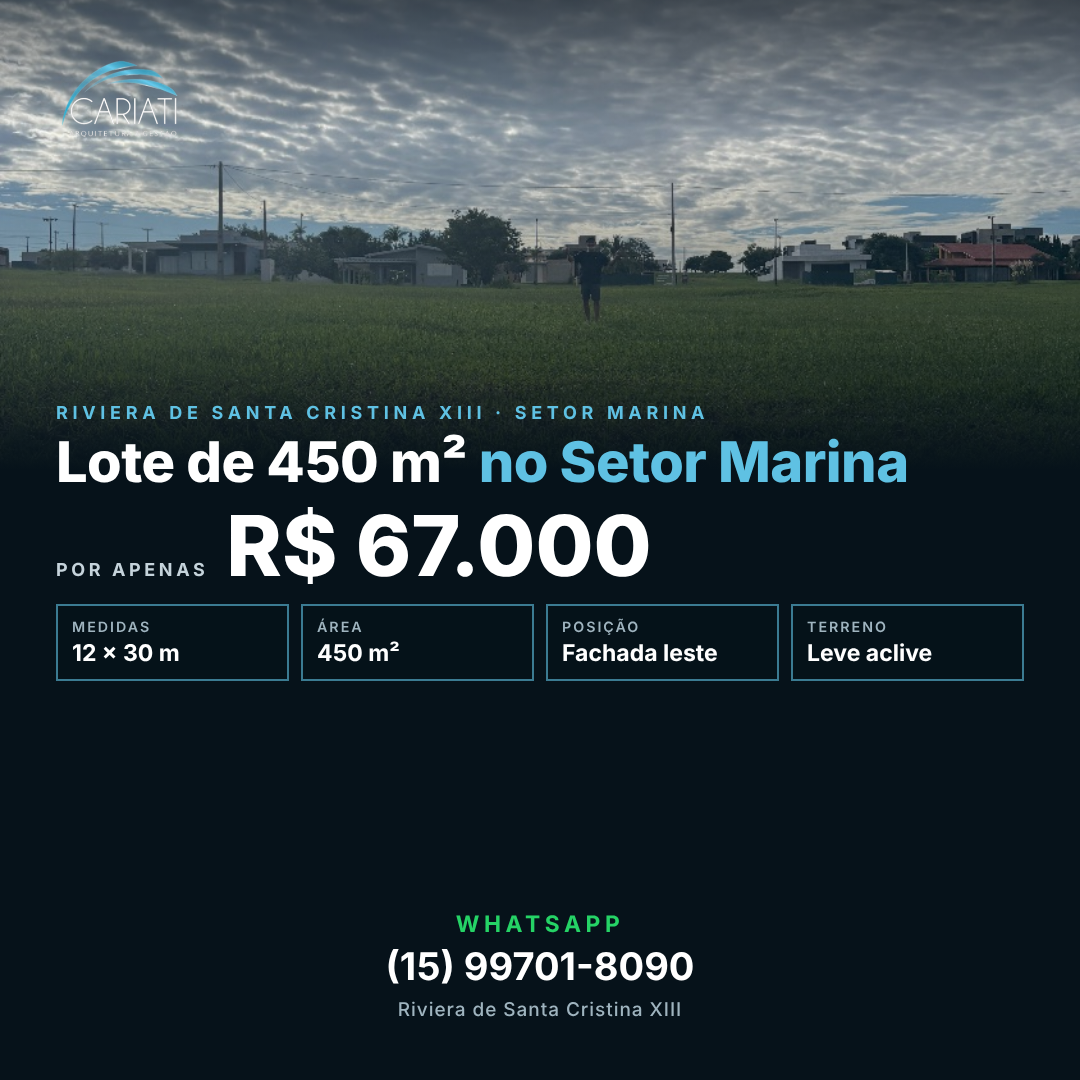
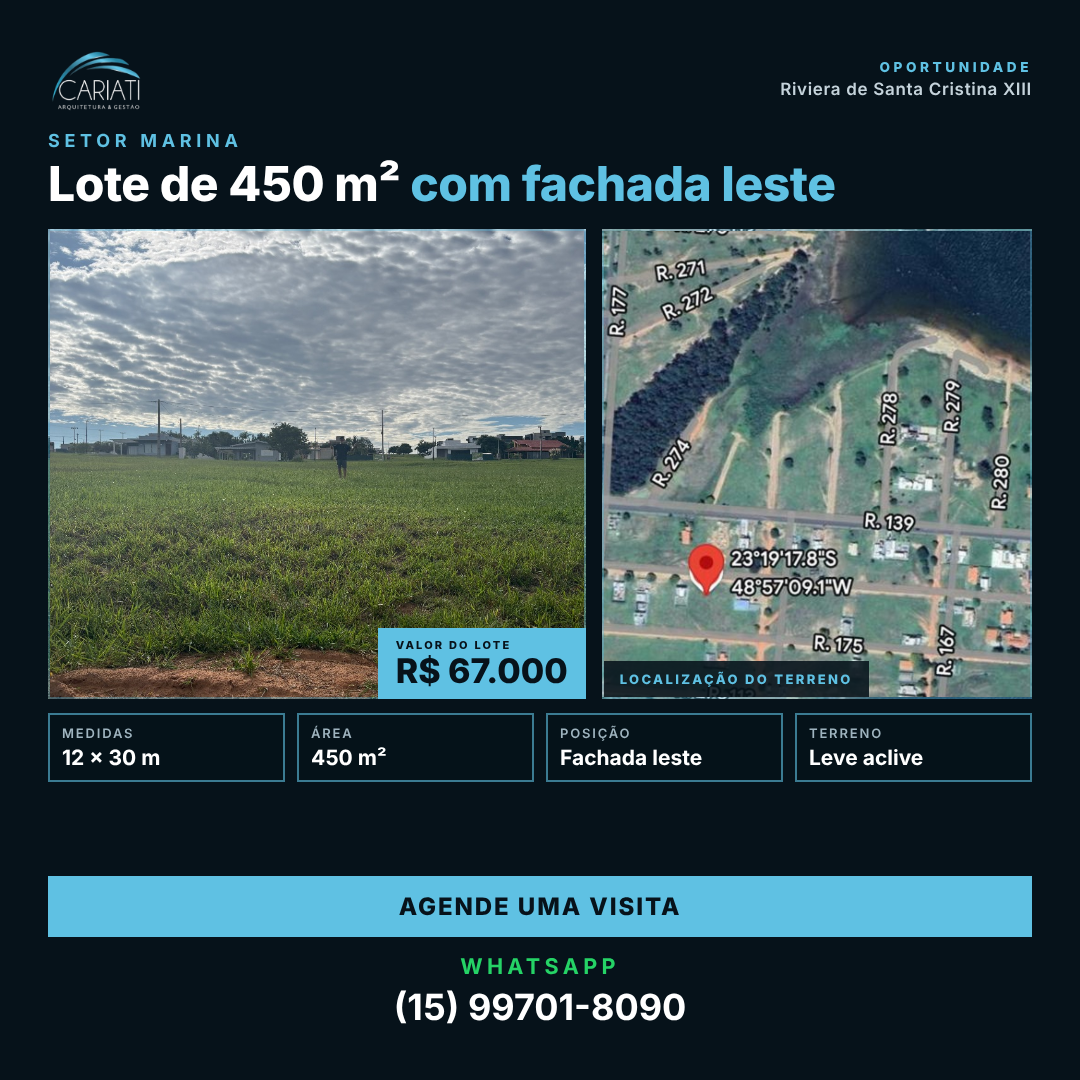
Lot ad v2: photo grid, location map, price badge, spec cards
Claude-Session: https://claude.ai/code/session_012W4cPJrLBDcgKi33Cw4yCm

diff --git a/lote_riviera/build.py b/lote_riviera/build.py
@@ -4,6 +4,15 @@ CSS="""
 *{margin:0;padding:0;box-sizing:border-box}
 body{font-family:'Inter',sans-serif;color:#fff}
 .f{position:relative;width:var(--w);height:var(--h);background:#06121a;overflow:hidden;display:flex;flex-direction:column;padding:var(--p)}
+.hd{display:flex;justify-content:space-between;align-items:center}
+.hr{text-align:right;font-weight:600;font-size:var(--hrf);color:#c5d3db;letter-spacing:.04em;line-height:1.5}
+.hr span{display:block;color:#5fc1e3;font-weight:800;letter-spacing:.26em;font-size:.8em}
+.im{background-size:cover;border:2px solid rgba(95,193,227,.35);position:relative;flex:none}
+.mt{position:absolute;left:0;bottom:0;background:rgba(6,18,26,.88);padding:10px 16px;font-weight:800;letter-spacing:.18em;font-size:var(--mtf);color:#5fc1e3}
+.pb{position:absolute;right:0;bottom:0;background:#5fc1e3;color:#07121a;padding:var(--pbp);text-align:left}
+.pb small{display:block;font-weight:800;letter-spacing:.2em;font-size:var(--pbs)}
+.pb b{font-weight:800;font-size:var(--pbf);line-height:1.1}
+.mp{position:relative}
 .bg{position:absolute;left:0;top:0;width:100%;height:var(--ph);background-size:cover;background-position:var(--pp)}
 .bg:after{content:'';position:absolute;inset:0;background:linear-gradient(180deg,rgba(3,10,16,.55) 0%,rgba(3,10,16,0) 28%,rgba(6,18,26,.35) 62%,#06121a 100%)}
 .z{position:relative;z-index:2}
@@ -22,22 +31,31 @@ h1 em{font-style:normal;color:#5fc1e3}
 .ph .wa{color:#25d366;font-size:.6em;letter-spacing:.2em;text-transform:uppercase;display:block}
 .ph small{display:block;font-weight:500;color:#9fb4bf;font-size:.5em;letter-spacing:.05em;margin-top:4px}
 """
-def chips(): 
+def chips(cols=4):
     c=[("Medidas","12 × 30 m"),("Área","450 m²"),("Posição","Fachada leste"),("Terreno","Leve aclive")]
-    return '<div class="chips z">'+''.join(f'<div class=chip><span>{a}</span>{b}</div>' for a,b in c)+'</div>'
-PH='<div class="ph z"><span class=wa>WhatsApp</span>(15) 99701-8090<small>Riviera de Santa Cristina XIII</small></div>'
+    return f'<div class="chips z" style="grid-template-columns:repeat({cols},1fr)">'+''.join(f'<div class=chip><span>{a}</span>{b}</div>' for a,b in c)+'</div>'
+PH='<div class="ph z"><span class=wa>WhatsApp</span>(15) 99701-8090</div>'
 def sp(n): return f"<div style='height:{n}px;flex:none'></div>"
+def img(f,h,pos="center",extra="",inner="",w=""):
+    return f"<div class='im' style=\"height:{h}px;{w}background-image:url('../assets/{f}');background-position:{pos};{extra}\">{inner}</div>"
+def tag(t): return f"<div class=tg>{t}</div>"
+BADGE='<div class=pb><small>VALOR DO LOTE</small><b>R$ 67.000</b></div>'
 def build(w,h,v,vert):
     vs=";".join(f"--{k}:{x}" for k,x in v.items())
-    L='<img class="logo z" src="../assets/logo.png">'
-    bg=f"<div class=bg style=\"background-image:url('../assets/foto1.jpg')\"></div>"
+    top=f'<div class="hd z"><img class="logo" src="../assets/logo.png"><div class=hr><span>OPORTUNIDADE</span>Riviera de Santa Cristina XIII</div></div>'
+    title='<div class="eb z">Setor Marina</div>'+sp(8)+'<h1 class=z>Lote de 450&nbsp;m² <em>com fachada leste</em></h1>'
     if vert:
-        body=bg+L+sp(560)+'<div class="eb z">Riviera de Santa Cristina XIII · Setor Marina</div>'+sp(20)+'<h1 class=z>Lote de 450&nbsp;m² <em>no Setor Marina</em></h1>'+sp(30)+'<div class="price z"><small>POR APENAS</small><b>R$ 67.000</b></div>'+sp(34)+chips()+"<div style='flex:1'></div>"+'<div class="cta z">Quero conhecer o lote</div>'+sp(30)+PH
+        body=(top+sp(34)+title+sp(30)+img("foto1.jpg",560,"center 42%","","",'')+f"<div class=z style='margin-top:-560px;height:560px;position:relative'>{BADGE}</div>"
+          +sp(16)+f"<div class='z' style='display:flex;gap:16px;flex:none'>{img('foto3.jpg',220,'center 55%','flex:1')}{img('foto2.jpg',220,'center 60%','flex:1')}</div>"
+          +sp(14)+f"<div class='z mp'>{img('mapa.jpg',350,'center 78%','','<div class=mt>LOCALIZAÇÃO DO TERRENO</div>')}</div>"
+          +sp(18)+chips(4)+"<div style='flex:1'></div>"+sp(14)+'<div class="cta z">Agende uma visita</div>'+sp(24)+PH)
     else:
-        body=bg+L+sp(262)+'<div class="eb z">Riviera de Santa Cristina XIII · Setor Marina</div>'+sp(10)+'<h1 class=z>Lote de 450&nbsp;m² <em>no Setor Marina</em></h1>'+sp(12)+'<div class="price z"><small>POR APENAS</small><b>R$ 67.000</b></div>'+sp(16)+chips().replace('class="chips z"','class="chips z" style="grid-template-columns:repeat(4,1fr)"')+"<div style='flex:1'></div>"+PH
+        body=(top+sp(18)+title+sp(20)
+          +f"<div class='z' style='display:flex;gap:16px;flex:none'><div style='flex:1.25;position:relative'>{img('foto1.jpg',470,'center 42%')}{BADGE}</div><div style='flex:1;position:relative'>{img('mapa.jpg',470,'center 80%','','<div class=mt>LOCALIZAÇÃO DO TERRENO</div>')}</div></div>"
+          +sp(14)+chips(4)+"<div style='flex:1'></div>"+sp(10)+'<div class="cta z">Agende uma visita</div>'+sp(14)+PH)
     return f"<html><head><meta charset=utf-8><style>{CSS}</style></head><body><div class=f style='--w:{w}px;--h:{h}px;{vs}'>{body}</div></body></html>"
-V=dict(p="80px",ph="1000px",pp="center 40%",lh="120px",e="24px",h1="82px",pr="120px",g="18px",cp="20px 26px",cf="38px",c="34px",cb="30px",t="52px")
-S=dict(p="56px",ph="470px",pp="center 40%",lh="84px",e="18px",h1="56px",pr="84px",g="12px",cp="12px 14px",cf="23px",c="28px",cb="22px",t="38px")
+V=dict(hrf="22px",mtf="17px",pbp="18px 28px",pbs="14px",pbf="54px",p="64px",ph="1000px",pp="center 40%",lh="96px",e="24px",h1="70px",pr="120px",g="18px",cp="16px 18px",cf="27px",c="32px",cb="26px",t="50px")
+S=dict(hrf="17px",mtf="13px",pbp="10px 18px",pbs="11px",pbf="34px",p="48px",ph="470px",pp="center 40%",lh="64px",e="18px",h1="48px",pr="84px",g="12px",cp="10px 12px",cf="21px",c="24px",cb="16px",t="36px")
 (root/"html").mkdir(exist_ok=True); import json; jobs=[]
 for tag,(w,h,v,vert) in {"vertical_1080x1920":(1080,1920,V,True),"quadrado_1080x1080":(1080,1080,S,False)}.items():
     f=f"anuncio_lote_{tag}"; (root/"html"/f"{f}.html").write_text(build(w,h,v,vert)); jobs.append(dict(f=f,w=w,h=h))
